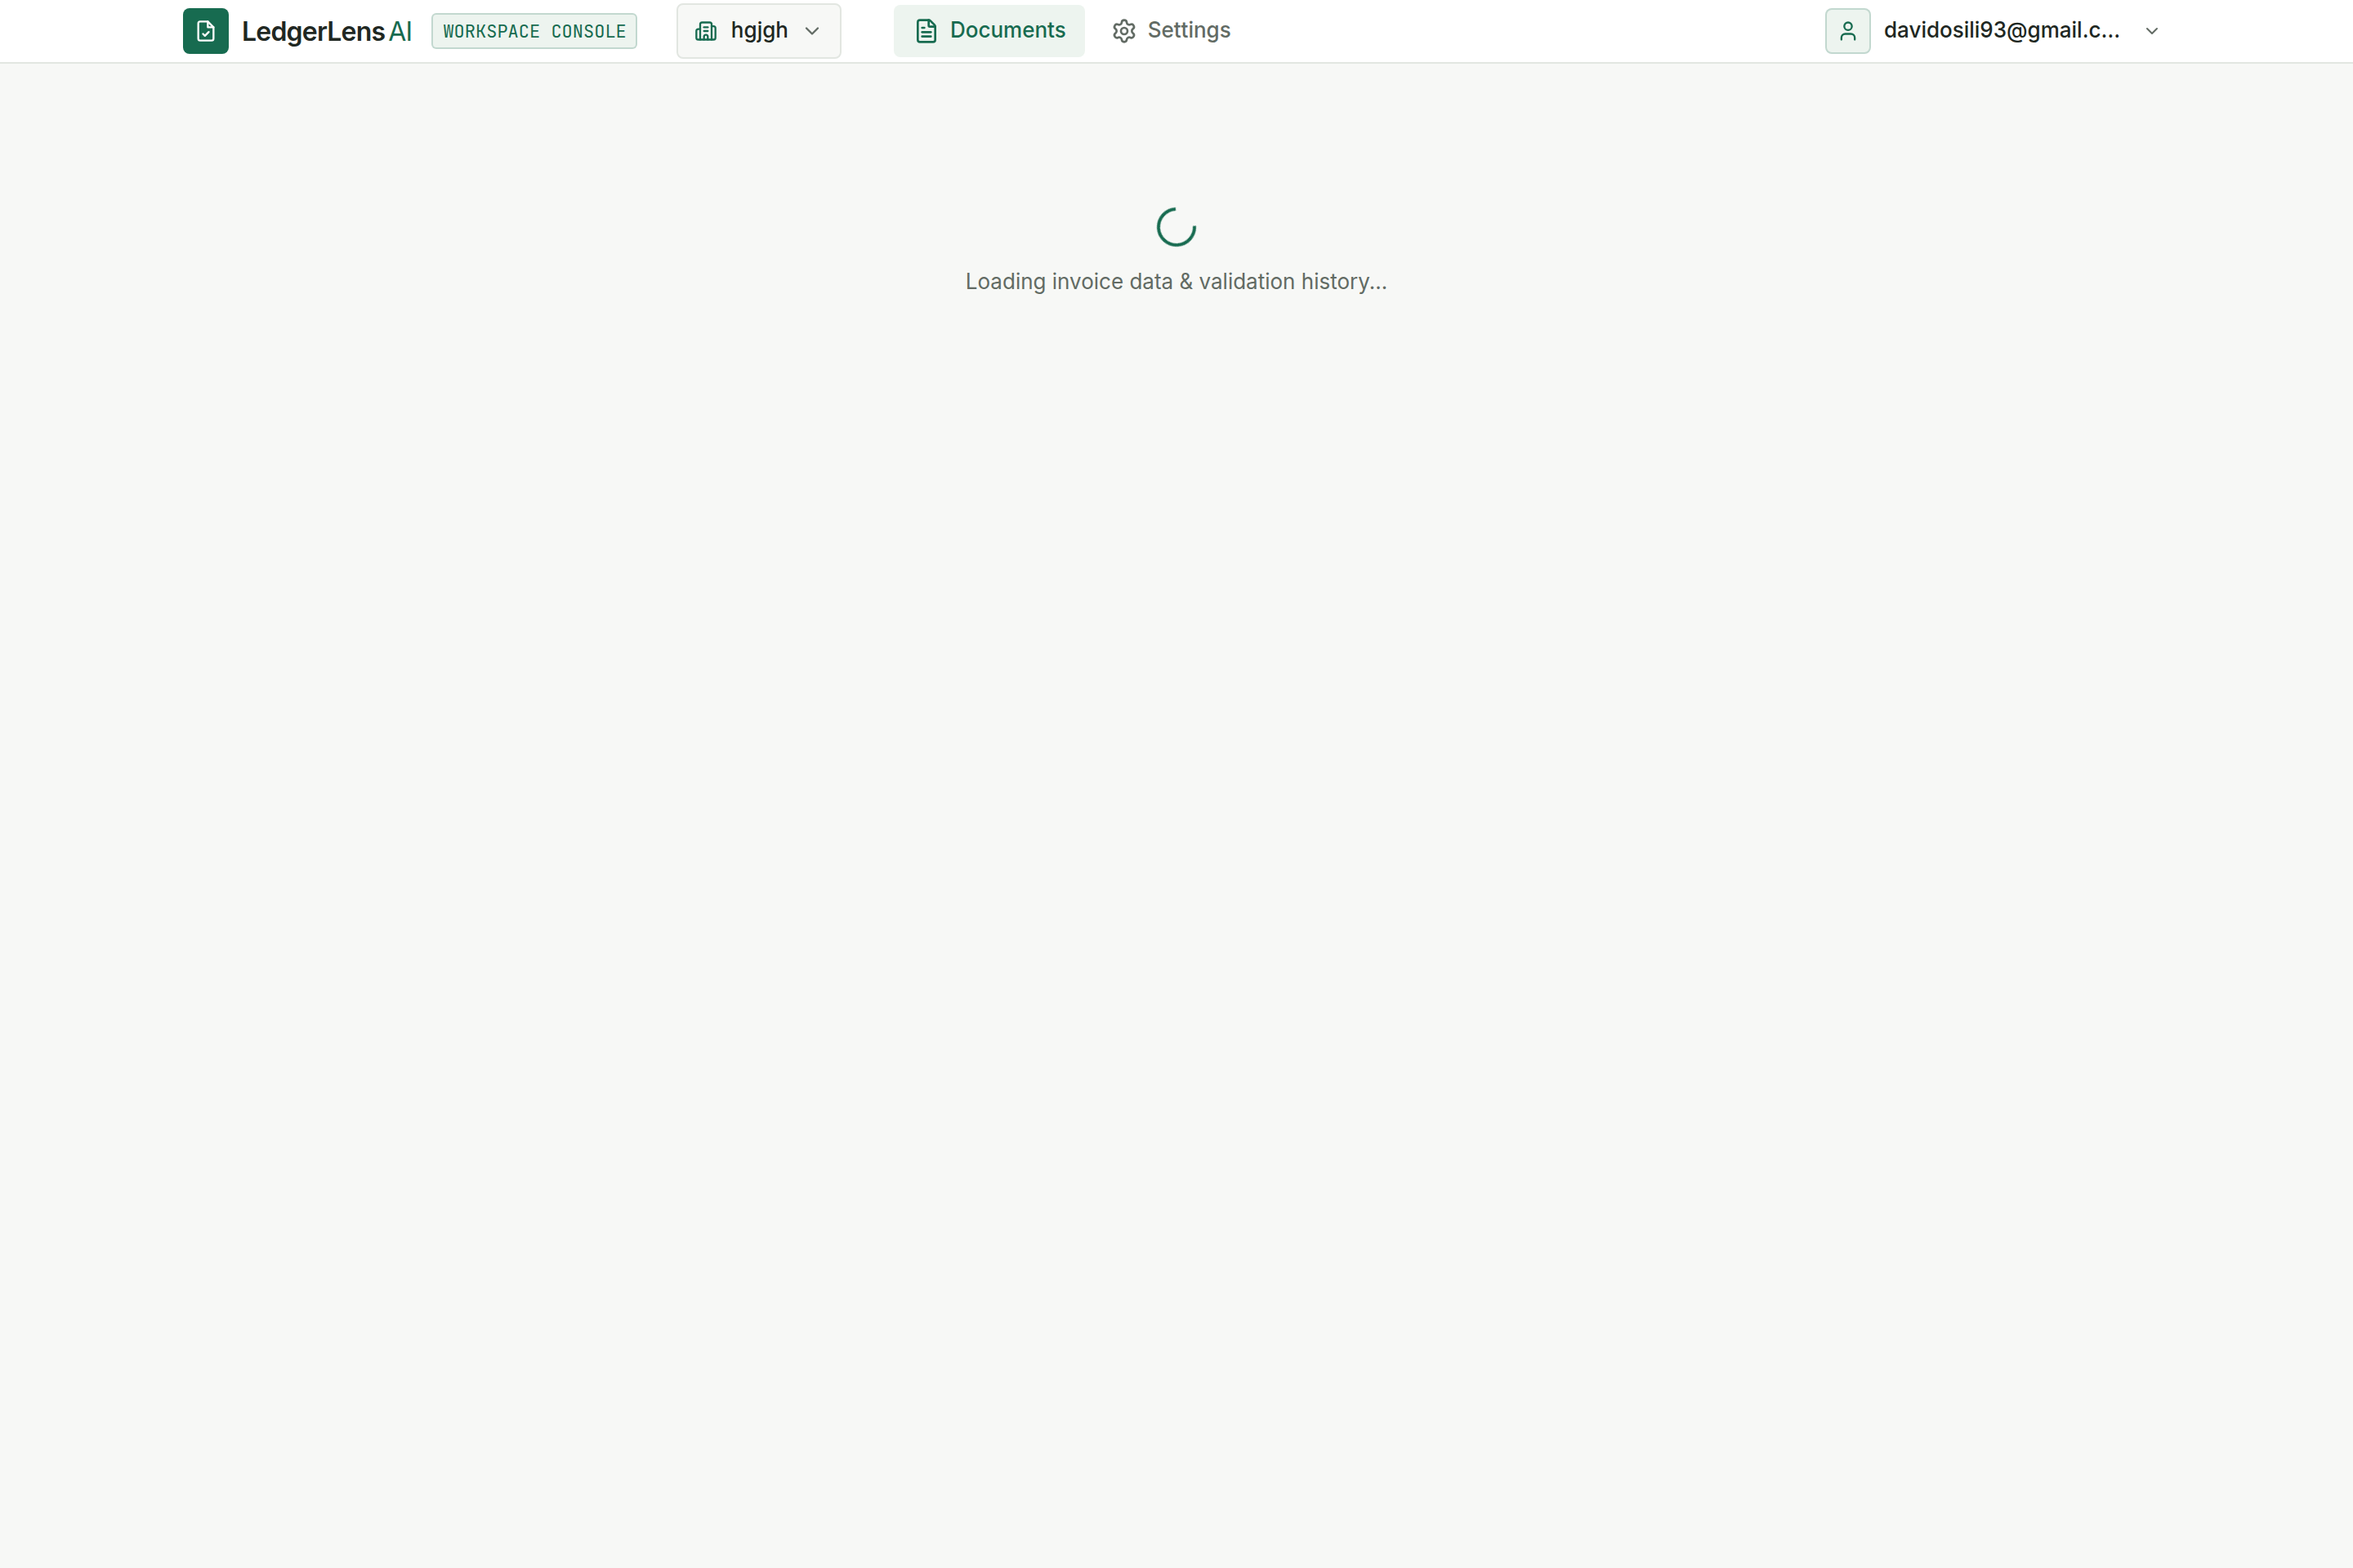
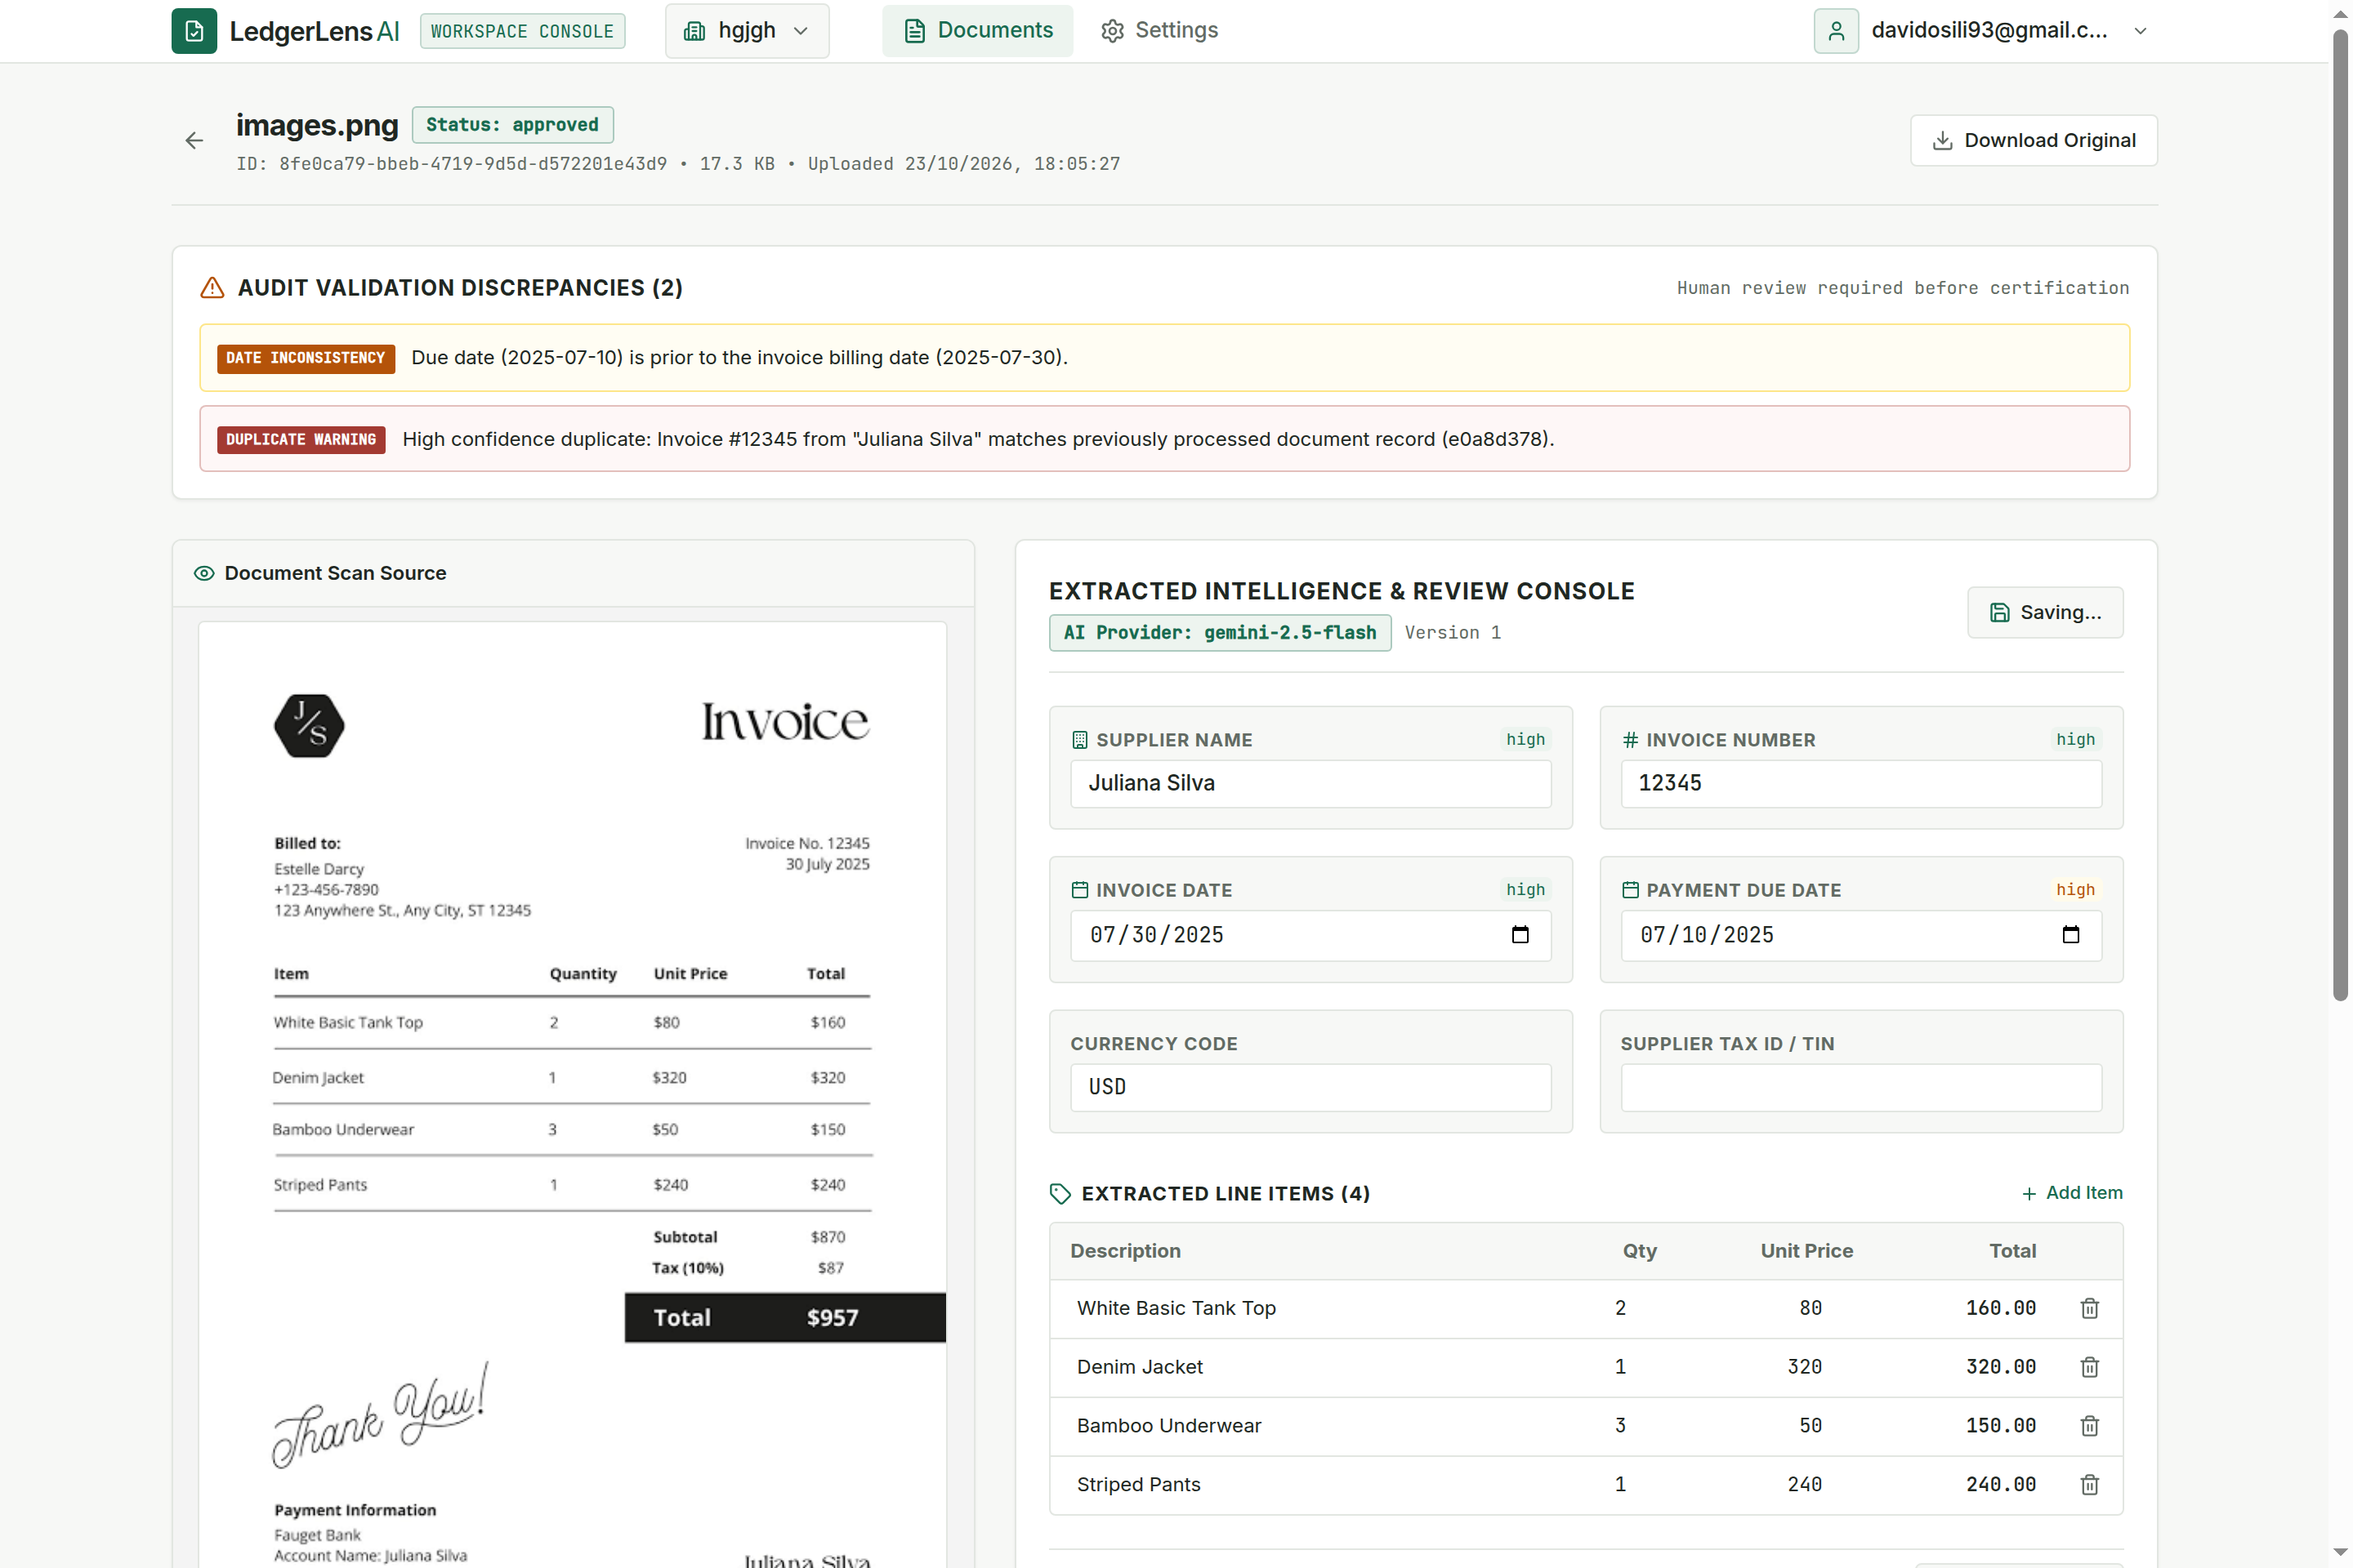
fix(routing): add explicit serverless function rewrites in vercel.json and handle 405 correctly

diff --git a/src/lib/api.ts b/src/lib/api.ts
@@ -424,10 +424,22 @@ export async function queueAndProcessInvoice(
         if (serverRes.status === 401 || serverRes.status === 403 || serverRes.status === 404) {
           throw new Error(backendErrorDetail || 'Access denied or document not found.');
         }
+        if (serverRes.status === 405) {
+          throw new Error(`API routing defect: ${backendErrorDetail} (HTTP 405 Method Not Allowed on /api/documents/${documentId}/process). The serverless function route was rejected.`);
+        }
+        if (serverRes.status === 400) {
+          throw new Error(backendErrorDetail || 'Invalid request payload or document identifier.');
+        }
       }
     }
   } catch (err: any) {
-    if (err.message?.includes('Access denied') || err.message?.includes('not found')) {
+    if (
+      err.message?.includes('Access denied') ||
+      err.message?.includes('not found') ||
+      err.message?.includes('routing defect') ||
+      err.message?.includes('HTTP 405') ||
+      err.message?.includes('Invalid request')
+    ) {
       throw err;
     }
     backendErrorDetail = err?.message || 'Backend API server unreachable';

diff --git a/dist/index.html b/dist/index.html
@@ -13,7 +13,7 @@
     <link rel="preconnect" href="https://fonts.googleapis.com" />
     <link rel="preconnect" href="https://fonts.gstatic.com" crossorigin />
     <link href="https://fonts.googleapis.com/css2?family=Inter:wght@400;500;600;700&family=JetBrains+Mono:wght@400;500&display=swap" rel="stylesheet" />
-    <script type="module" crossorigin src="/assets/index-Rt60hdG7.js"></script>
+    <script type="module" crossorigin src="/assets/index-CzsdylLG.js"></script>
     <link rel="stylesheet" crossorigin href="/assets/index-CFdCQrdV.css">
   </head>
   <body class="bg-[#FFFFFF] text-[#202722] antialiased selection:bg-[#EDF4EF] selection:text-[#176B50]">

diff --git a/vite.config.ts b/vite.config.ts
@@ -14,8 +14,8 @@ function apiServerDevPlugin() {
       });
       ping.on('error', () => {
         // Not running on 3001, spawn server/index.mjs
-        console.log('[LedgerLens Vite] Auto-starting API server on port 3001...');
-        serverProcess = spawn('node', ['server/index.mjs'], {
+        console.log('[LedgerLens Vite] Auto-starting API server on port 3001 with --watch...');
+        serverProcess = spawn('node', ['--watch', 'server/index.mjs'], {
           stdio: 'inherit',
           env: { ...process.env, PORT: '3001' },
         });
